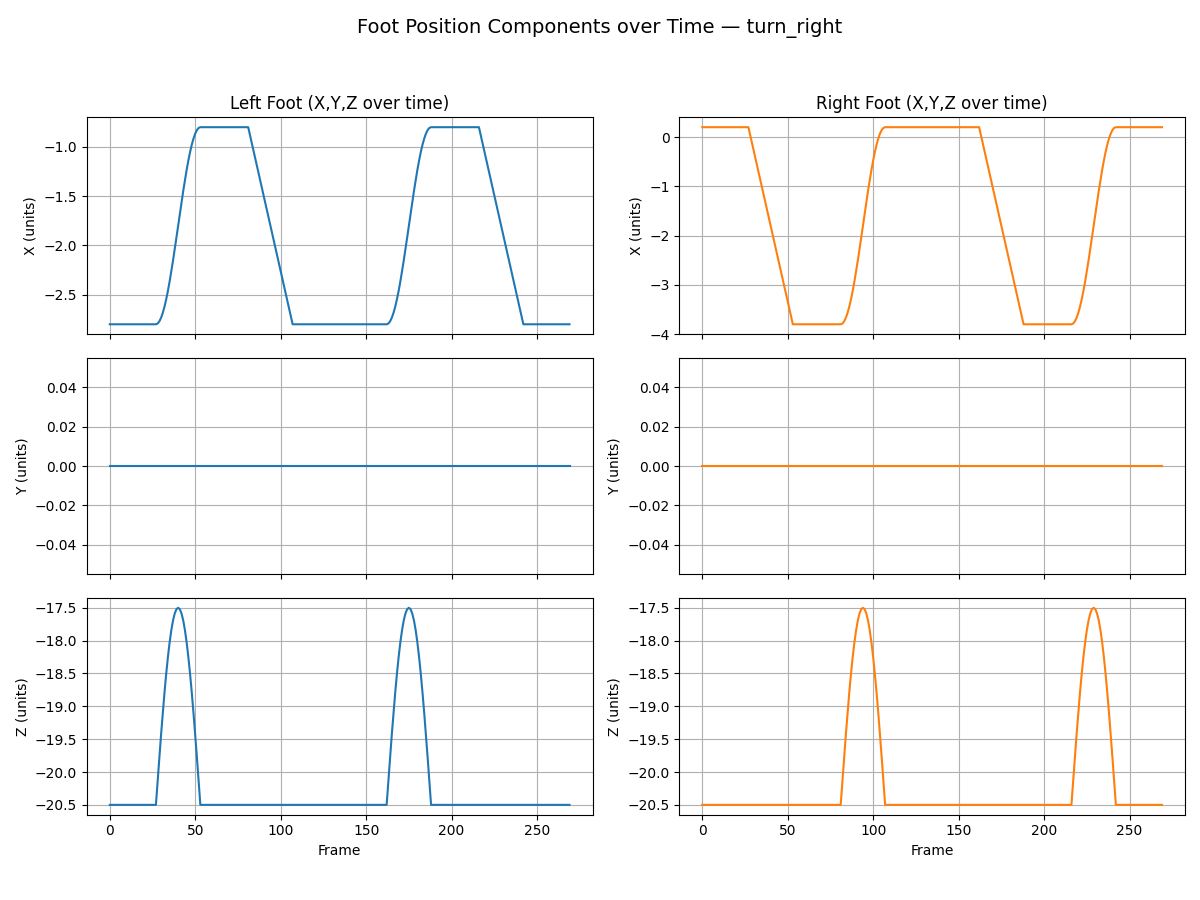
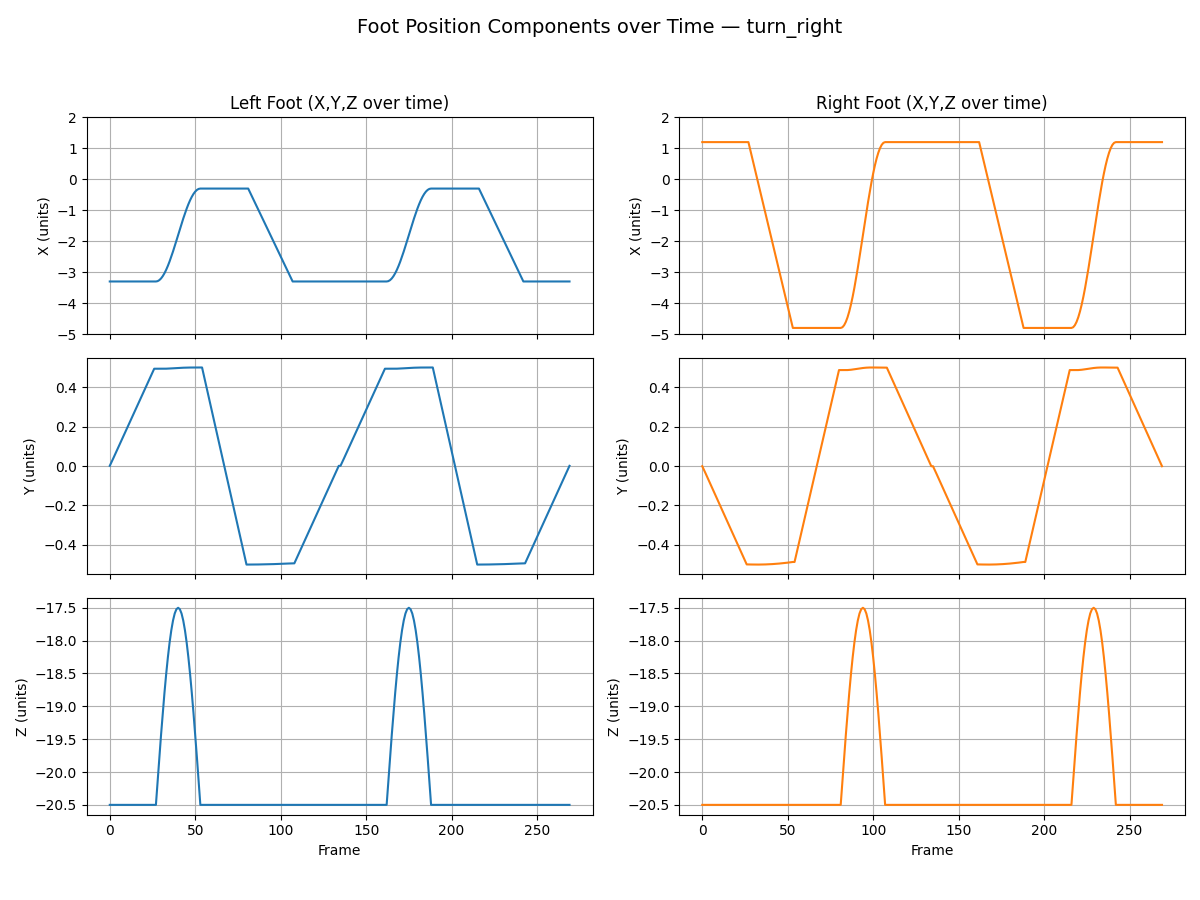
Fixed walking algo and graphs

diff --git a/code/utilities/plot_movement_profiles.py b/code/utilities/plot_movement_profiles.py
@@ -128,24 +128,26 @@ def plot_foot_trajectories(left_pos, right_pos, movement_name, out_dir="."):
     ax1.set_xlabel("X (units)")
     ax1.set_ylabel("Z (units)")
     ax1.set_title(f"Foot Trajectories (X vs Z) — {movement_name}")
+    #ax1[1, 0].set_ylim(lims_y)
+    #ax1[1, 1].set_ylim(lims_y)
     ax1.grid(True)
     ax1.legend()
     out1 = os.path.join(out_dir, f"{movement_name}_foot_XZ.png")
     fig1.savefig(out1)
     print(f"Saved X-Z trajectory to {out1}")
 
-    # 2) X vs Y (plan / overhead)
+    # 2) Y vs Z (plan / overhead)
     fig2, ax2 = plt.subplots(figsize=(8, 6))
-    ax2.plot(left_pos[:, 0], left_pos[:, 1], '-o', markersize=3, label="Left Foot")
-    ax2.plot(right_pos[:, 0], right_pos[:, 1], '-o', markersize=3, label="Right Foot")
-    ax2.set_xlabel("X (units)")
-    ax2.set_ylabel("Y (units)")
-    ax2.set_title(f"Foot Trajectories (X vs Y) — {movement_name}")
+    ax2.plot(left_pos[:, 1], left_pos[:, 2], '-o', markersize=3, label="Left Foot")
+    ax2.plot(right_pos[:, 1], right_pos[:, 2], '-o', markersize=3, label="Right Foot")
+    ax2.set_xlabel("Y (units)")
+    ax2.set_ylabel("Z (units)")
+    ax2.set_title(f"Foot Trajectories (Y vs Z) — {movement_name}")
     ax2.grid(True)
     ax2.legend()
-    out2 = os.path.join(out_dir, f"{movement_name}_foot_XY.png")
+    out2 = os.path.join(out_dir, f"{movement_name}_foot_YZ.png")
     fig2.savefig(out2)
-    print(f"Saved X-Y trajectory to {out2}")
+    print(f"Saved Y-Z trajectory to {out2}")
 
     # 3) Time series for X, Y, Z for each foot
     frames = np.arange(left_pos.shape[0])
@@ -153,6 +155,7 @@ def plot_foot_trajectories(left_pos, right_pos, movement_name, out_dir="."):
     # Left foot columns
     axes[0, 0].plot(frames, left_pos[:, 0], label="Left X")
     axes[0, 0].set_ylabel("X (units)")
+    axes[0, 0].set_ylim((-5, 2))
     axes[1, 0].plot(frames, left_pos[:, 1], label="Left Y")
     axes[1, 0].set_ylabel("Y (units)")
     axes[2, 0].plot(frames, left_pos[:, 2], label="Left Z")
@@ -161,6 +164,7 @@ def plot_foot_trajectories(left_pos, right_pos, movement_name, out_dir="."):
     # Right foot columns
     axes[0, 1].plot(frames, right_pos[:, 0], label="Right X", color="C1")
     axes[0, 1].set_ylabel("X (units)")
+    axes[0, 1].set_ylim((-5, 2))
     axes[1, 1].plot(frames, right_pos[:, 1], label="Right Y", color="C1")
     axes[1, 1].set_ylabel("Y (units)")
     axes[2, 1].plot(frames, right_pos[:, 2], label="Right Z", color="C1")

diff --git a/code/utilities/kinematics.py b/code/utilities/kinematics.py
@@ -217,6 +217,7 @@ def compute_forward_leg_kinematics(angles, leg):
       angles are already in servo/joint space.
     """
     hip = angles[HE_IDX]  # Assuming hip is the first angle in the list
+    abductor = angles[HA_IDX] # Assuming abductor is the second angle in the list
     knee = angles[KK_IDX] # Assuming knee is the second angle in the list
 
     # If your project stores right-leg angles mirrored (e.g., 180 - angle),
@@ -225,9 +226,11 @@ def compute_forward_leg_kinematics(angles, leg):
         # Example mirroring convention: convert mirrored representation to actual joint angles
         hip = math.radians(180.0 - hip)
         knee = math.radians(180.0 - knee)
+        abductor = math.radians(180.0 - abductor)
     else:
         hip = math.radians(hip)
         knee = math.radians(knee)
+        abductor = math.radians(abductor)
 
     # knee position relative to hip
     knee_x = A1_LENGTH * math.cos(hip)
@@ -241,7 +244,9 @@ def compute_forward_leg_kinematics(angles, leg):
     x = knee_x + foot_x
     z = knee_z + foot_z
 
-    return x,0,z
+    y = z * math.cos(abductor)  # Adjust y based on abductor angle
+  
+    return x,y,z
 
 
 if __name__ == "__main__":
